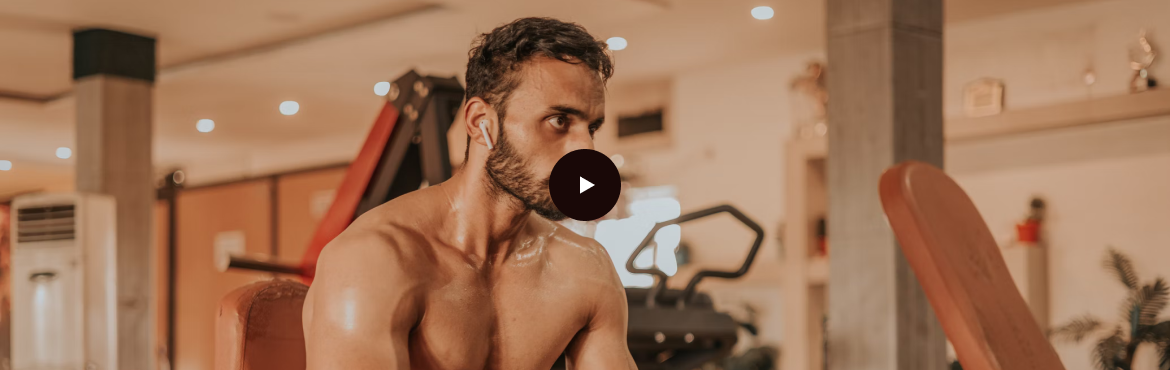
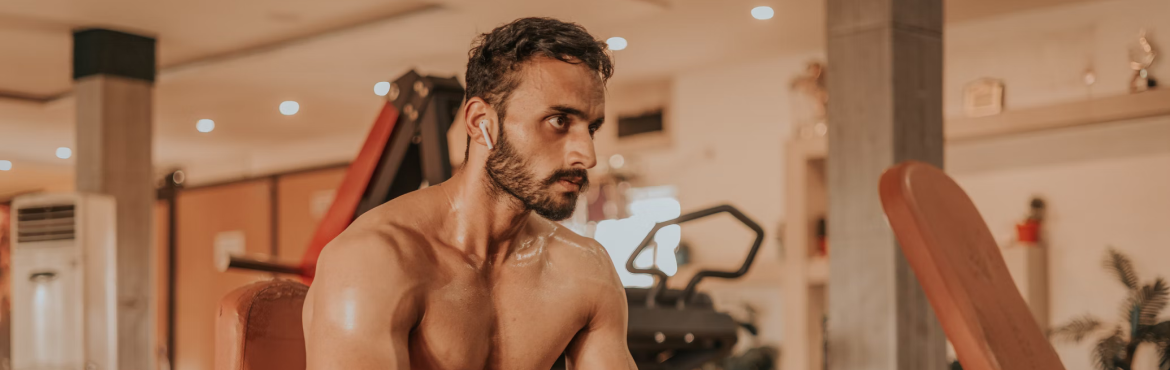
did hover on video

Changed region(s): [[0.4615, 0.3865, 0.5538, 0.5946]]

diff --git a/src/css/style.css b/src/css/style.css
@@ -125,10 +125,42 @@ a {
       bottom: -13px;
       left: 0; }
   .intro-img {
+    position: relative;
     margin-top: 64px;
     max-width: 1170px; }
-  .intro-img img {
-    width: 100%; }
+    .intro-img-bcg {
+      width: 100%; }
+    .intro-img-play {
+      display: -webkit-box;
+      display: -webkit-flex;
+      display: -ms-flexbox;
+      display: flex;
+      -webkit-box-align: center;
+      -webkit-align-items: center;
+          -ms-flex-align: center;
+              align-items: center;
+      -webkit-box-pack: center;
+      -webkit-justify-content: center;
+          -ms-flex-pack: center;
+              justify-content: center;
+      position: absolute;
+      width: 72px;
+      height: 72px;
+      border-radius: 50%;
+      background-color: #190807;
+      top: 40%;
+      left: 47%;
+      -webkit-transition: 0.3s;
+      -o-transition: 0.3s;
+      transition: 0.3s; }
+    .intro-img-play img {
+      margin-left: 5px; }
+    .intro-img-play:hover {
+      cursor: pointer;
+      background-color: #FF5045;
+      -webkit-transition: 0.3s;
+      -o-transition: 0.3s;
+      transition: 0.3s; }
   .intro-content {
     display: -webkit-box;
     display: -webkit-flex;
@@ -889,6 +921,10 @@ a {
         -ms-flex-wrap: wrap;
             flex-wrap: wrap;
     row-gap: 30px; }
+  .intro-img-play {
+    width: 60px;
+    height: 60px;
+    top: 35%; }
   .opinions-wrapper {
     -webkit-flex-wrap: wrap;
         -ms-flex-wrap: wrap;
@@ -932,6 +968,11 @@ a {
             column-gap: 100px; }
     .footer-bottom-wrapper-rights {
       padding: 10px 0 5px 0; } }
+
+@media (max-width: 500px) {
+  .intro-img-play {
+    width: 45px;
+    height: 45px; } }
 
 @media (max-width: 360px) {
   .intro {

diff --git a/src/scss/style.scss b/src/scss/style.scss
@@ -134,11 +134,33 @@ a{
         }
     }
     &-img{
+        position: relative;
         margin-top: 64px;
         max-width: 1170px;
-    }
-    &-img img{
-        width: 100%;
+        &-bcg{
+            width: 100%;
+        }
+        &-play{
+            display: flex;
+            align-items: center;
+            justify-content: center;
+            position: absolute;
+            width: 72px;
+            height: 72px;
+            border-radius: 50%;
+            background-color: $intro-bcg;
+            top: 40%;
+            left: 47%;
+            transition: 0.3s;
+        }
+        &-play img{
+            margin-left: 5px;
+        }
+        &-play:hover{
+            cursor: pointer;
+            background-color: $links-bcg;
+            transition: 0.3s;
+        }
     }
     &-content{
         display: flex;
@@ -734,6 +756,13 @@ a{
             flex-wrap: wrap;
             row-gap: 30px;
         }
+        &-img{
+            &-play{
+                width: 60px;
+                height: 60px;
+                top: 35%;
+            }
+        }
     }
     .opinions{
         &-wrapper{
@@ -780,6 +809,16 @@ a{
                 &-rights{
                     padding: 10px 0 5px 0;
                 }
+            }
+        }
+    }
+}
+@media(max-width: 500px){
+    .intro{
+        &-img{
+            &-play{
+                width: 45px;
+                height: 45px;
             }
         }
     }

diff --git a/src/index.html b/src/index.html
@@ -29,7 +29,10 @@
 				</div>
 			</nav>
 			<div class="intro-img">
-				<img src="img/intro-bcg.png" alt="">
+				<img class="intro-img-bcg" src="img/intro-bcg.png" alt="">
+				<div class="intro-img-play">
+					<img src="img/play.svg" alt="">
+				</div>
 			</div>
 			<div class="intro-content">
 				<div class="intro-content-title title">Giving good health for good peoples.</div>
